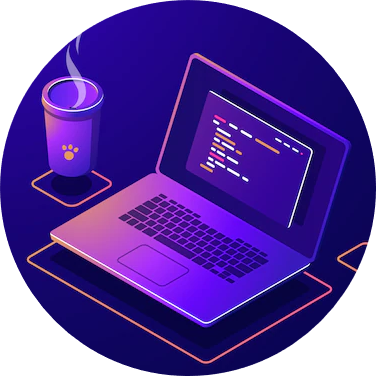
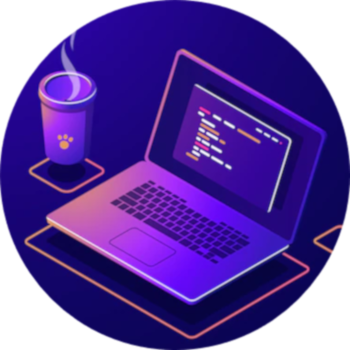
alterando tamanho da imagem.

diff --git a/index.html b/index.html
@@ -10,7 +10,7 @@
         <table cellspacing="20">
             <tr>
                 <td align="center">
-                    <img src="img/programming-1circle.png" width="15%" alt="">
+                    <img src="img/programming-1circle.png" alt="">
                 </td>
                 <td>
                     <h1>Lucas Cotulio</h1>
@@ -55,12 +55,10 @@
                 <tr>
                     <td>2017 a 2018</td>
                     <td>Solution Rastreamento e Tecnlogia</td>
-                    <td>Criacao de querys para trabalhar os dados com PowerBI</td>
                 </tr>
                 <tr>
                     <td>2018 até hoje</td>
                     <td>FCamara Consultoria</td>
-                    <td>Trabalho de QA (dados e aplicacao), testes manuais e automatizados.</td>
                 </tr>
             </tbody>
         </table>
